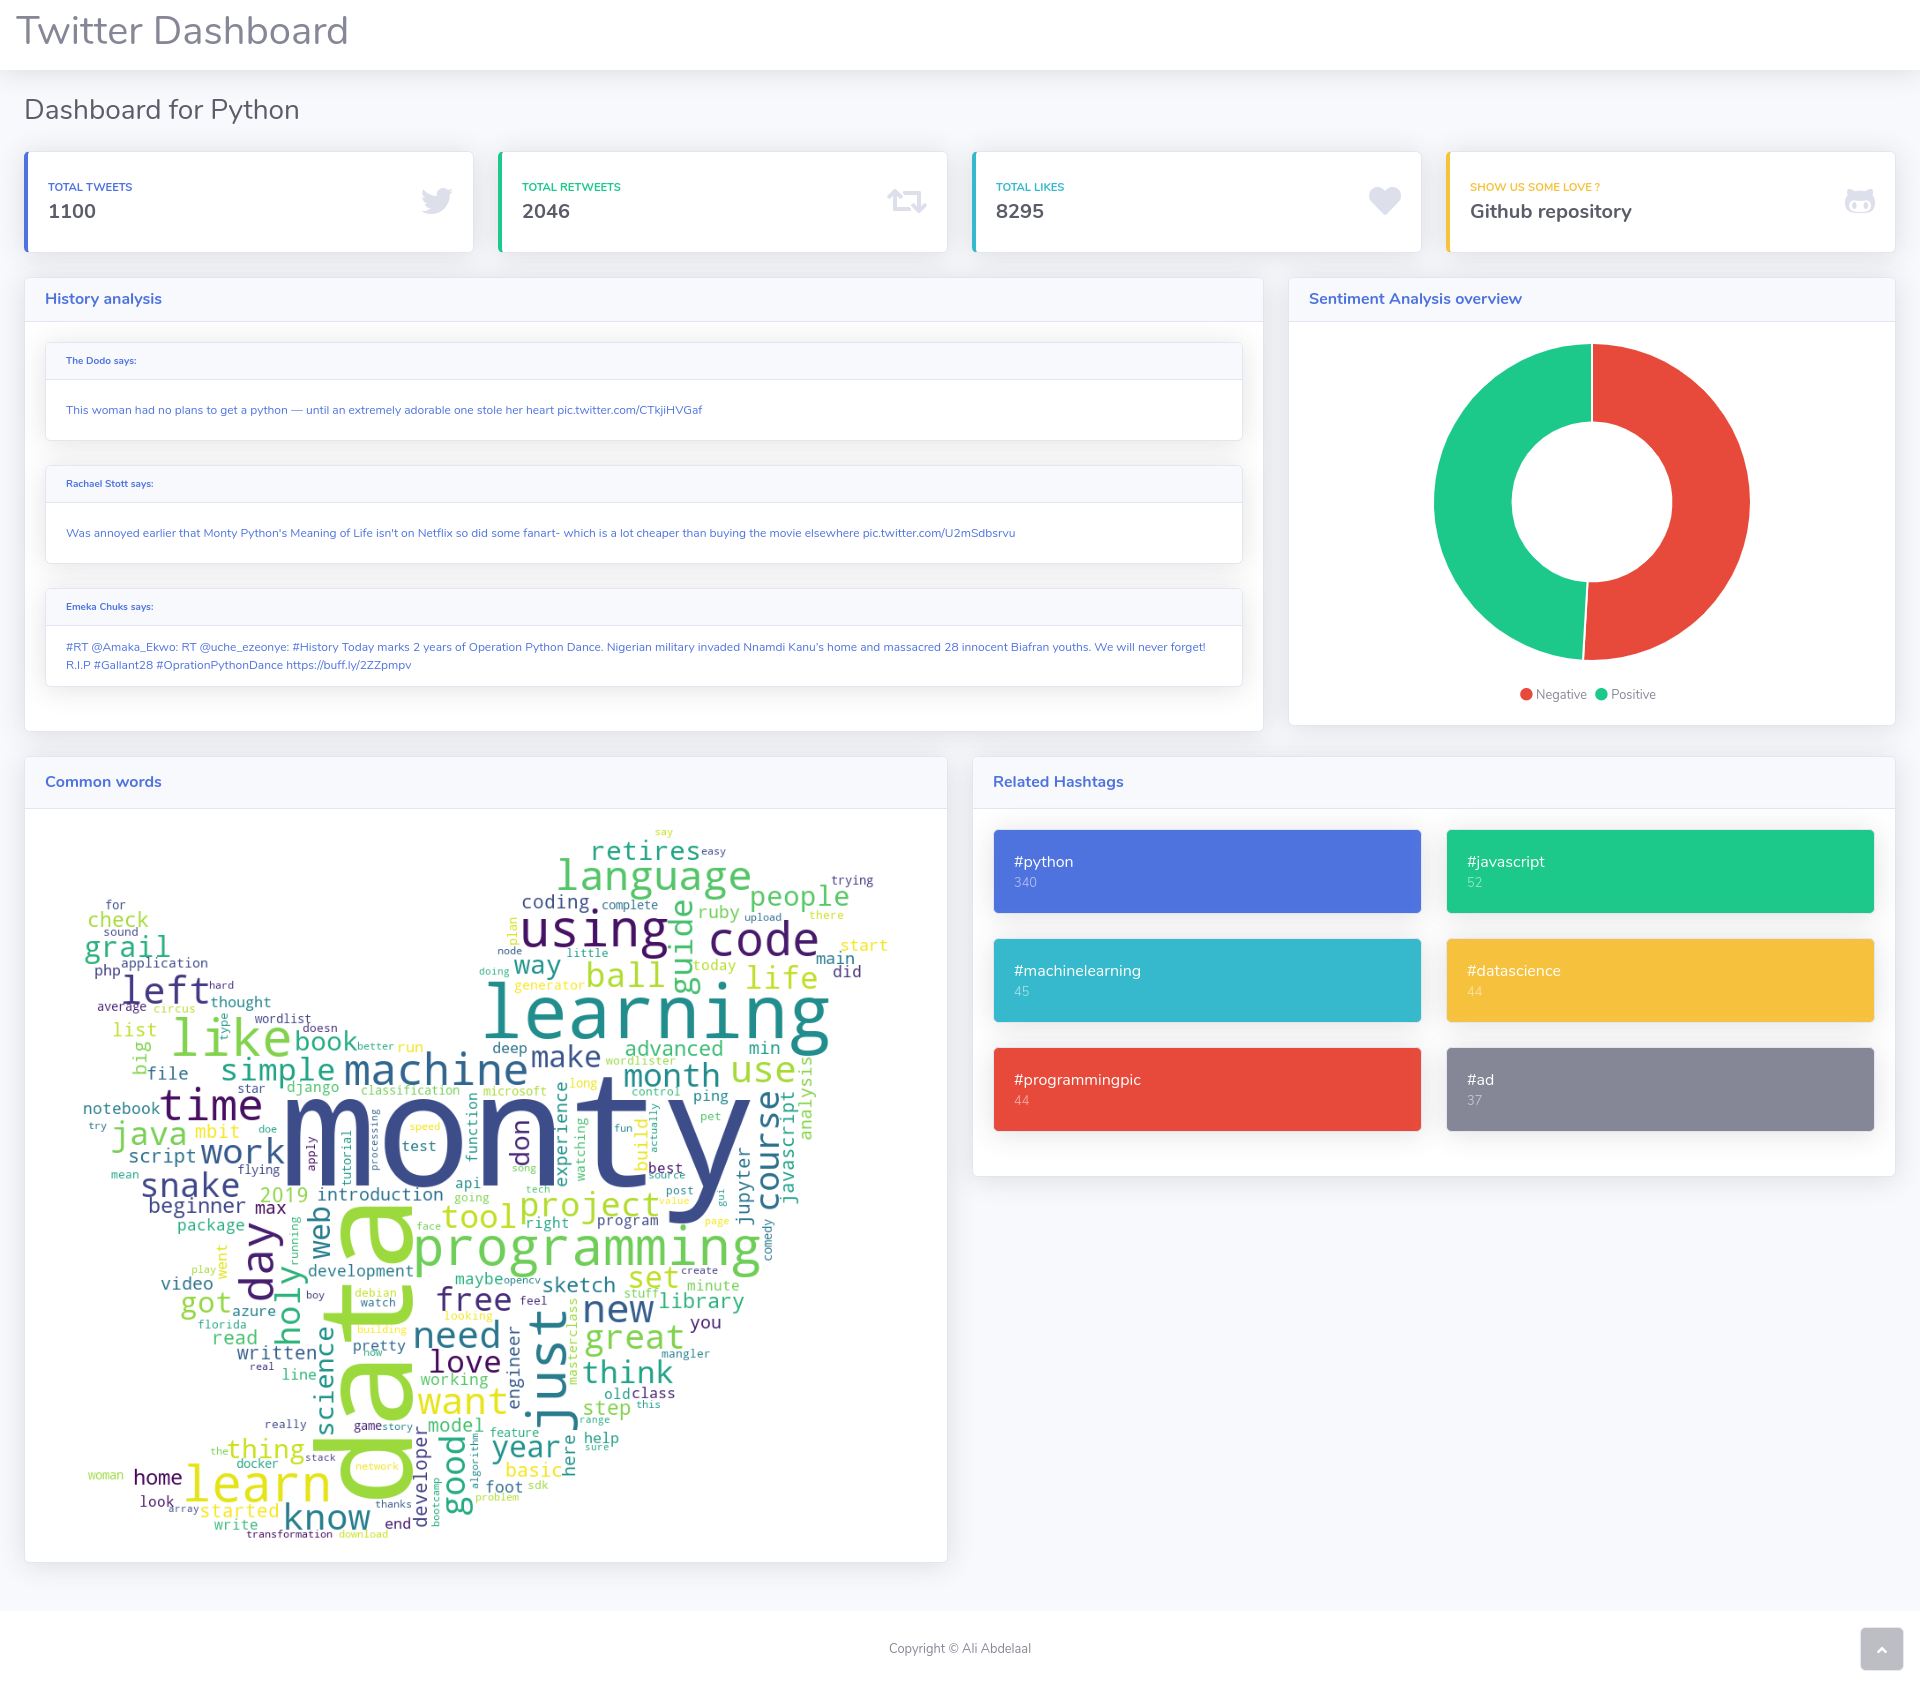
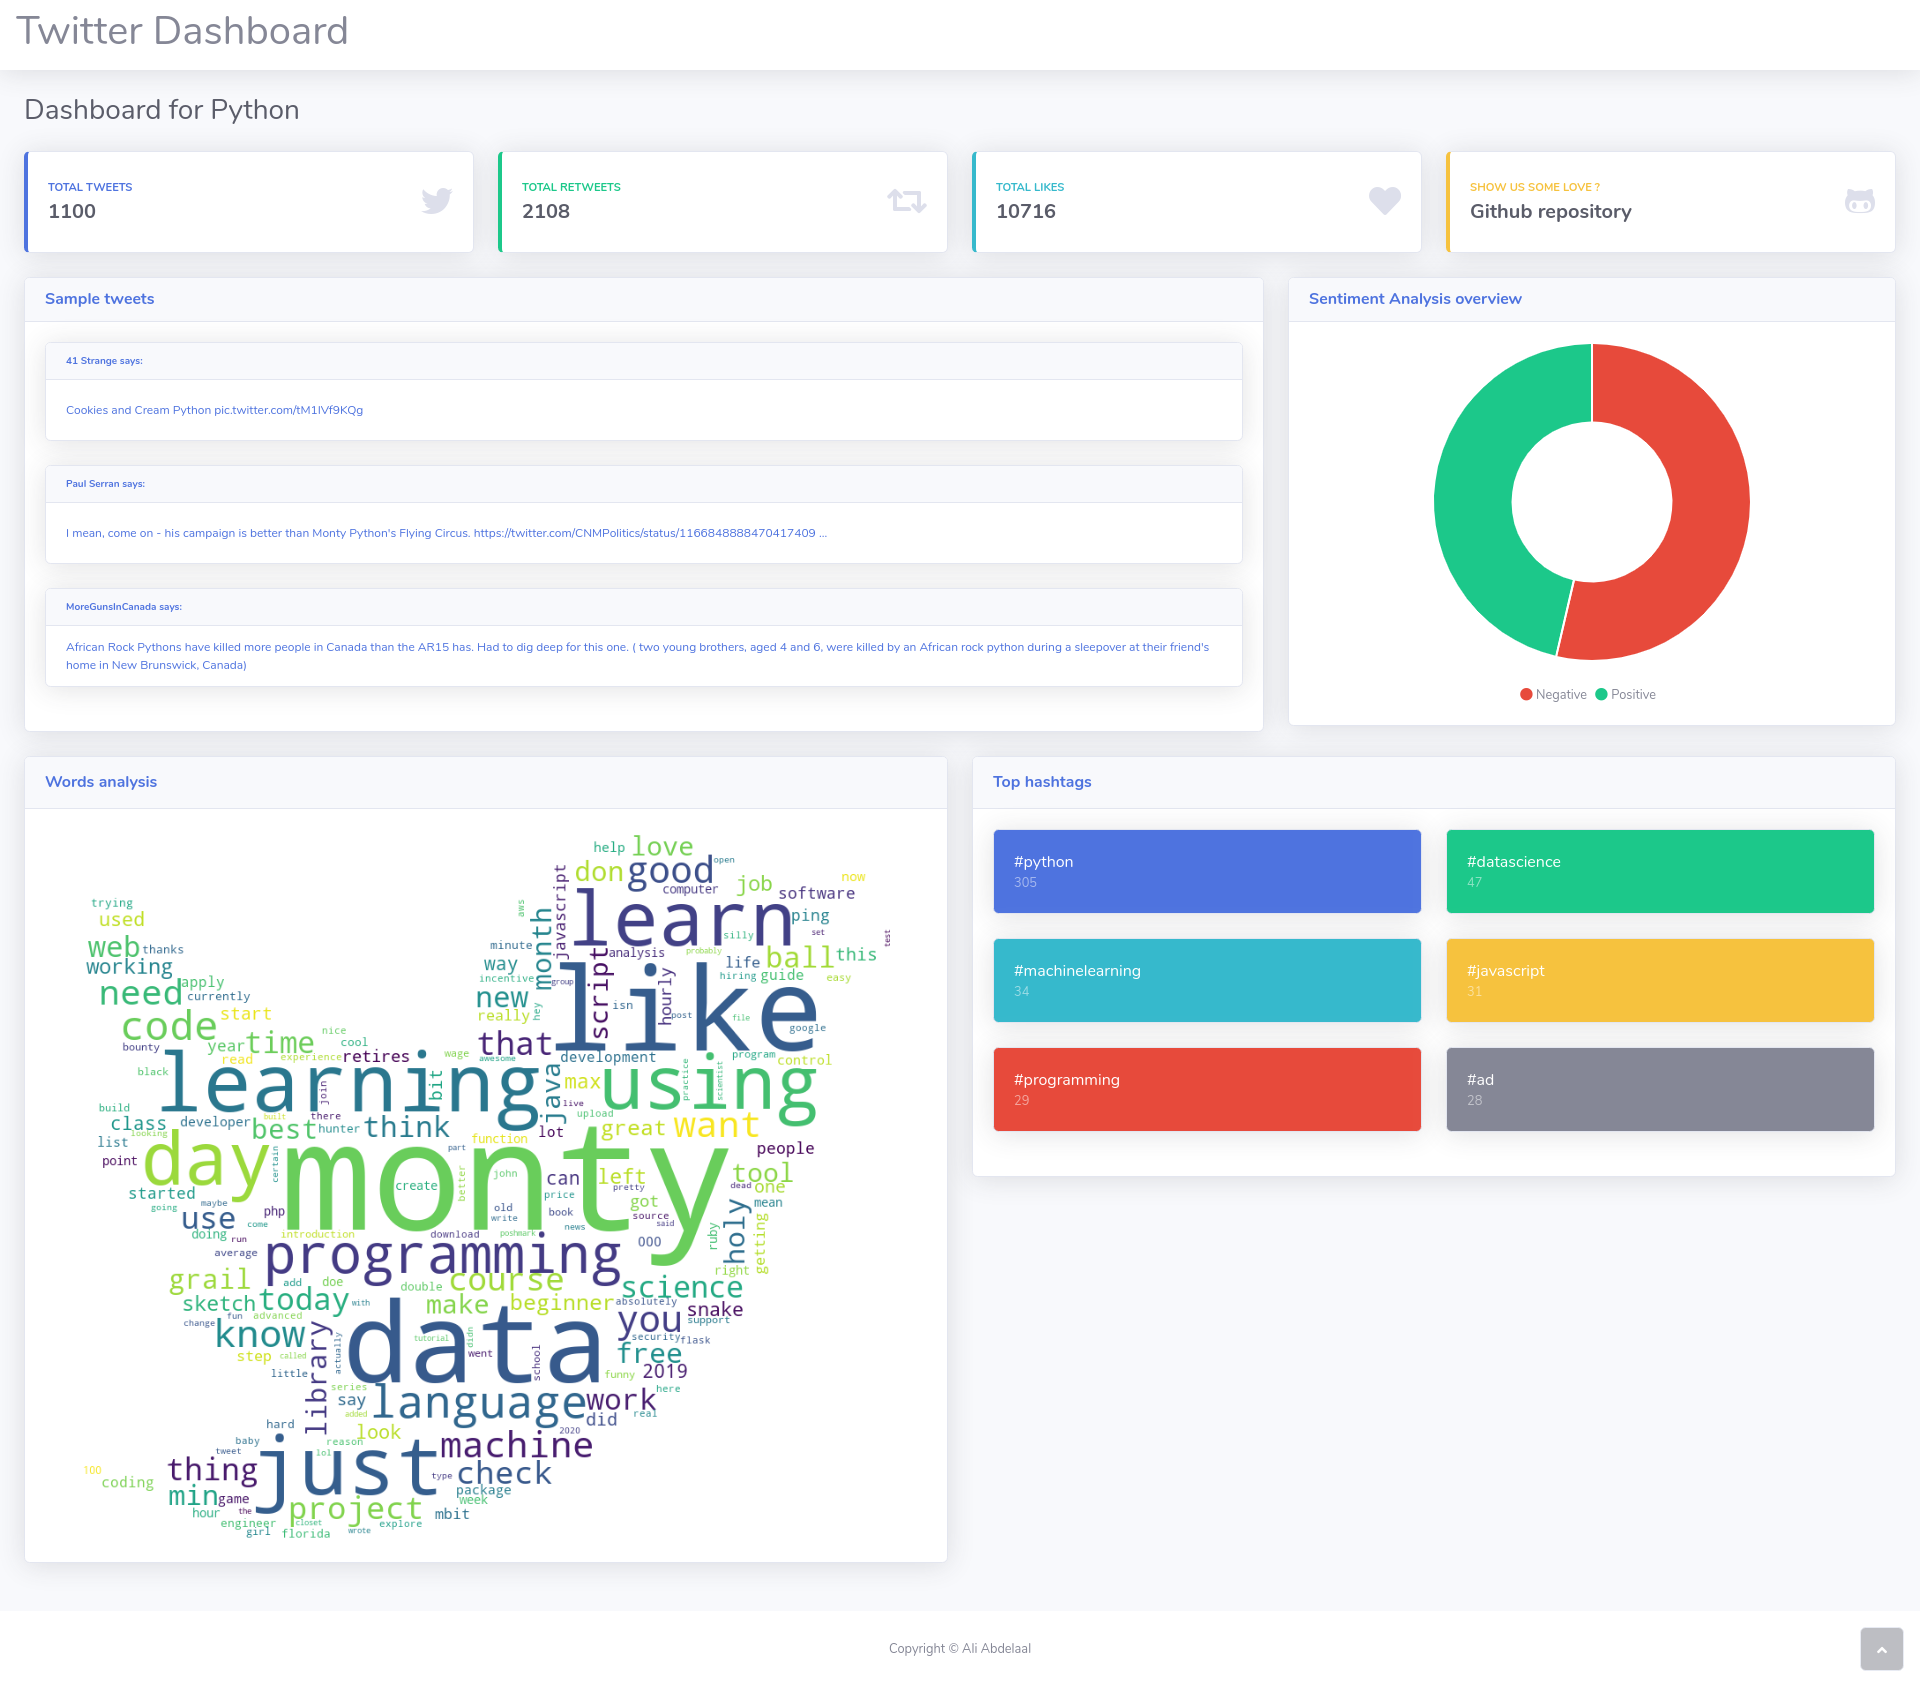
card label correct

diff --git a/twitterdash/templates/dashboard.html b/twitterdash/templates/dashboard.html
@@ -102,7 +102,7 @@
                         <div class="col-lg-7 col-xl-8">
                             <div class="card shadow mb-4">
                                 <div class="card-header d-flex justify-content-between align-items-center">
-                                    <h6 class="text-primary font-weight-bold m-0">History analysis</h6>
+                                    <h6 class="text-primary font-weight-bold m-0">Sample tweets</h6>
                                 </div>
                                 <div class="card-body">
                                     {%for tweet in top_tweets%}
@@ -137,7 +137,7 @@
                         <div class="col-lg-6 mb-4">
                             <div class="card shadow mb-4">
                                 <div class="card-header py-3">
-                                    <h6 class="text-primary font-weight-bold m-0">Common words</h6>
+                                    <h6 class="text-primary font-weight-bold m-0">Words analysis</h6>
                                 </div>
                                 <div class="card-body"><img class="img-fluid" src="{{ url_for('static', filename='img/'+cloud_sign) }}"></div>
                             </div>
@@ -145,7 +145,7 @@
                         <div class="col">
                             <div class="card shadow mb-4">
                                 <div class="card-header py-3">
-                                    <h6 class="text-primary font-weight-bold m-0">Related Hashtags</h6>
+                                    <h6 class="text-primary font-weight-bold m-0">Top hashtags</h6>
                                 </div>
                                 <div class="card-body">
                                     <div class="row">

diff --git a/README.md b/README.md
@@ -32,14 +32,14 @@ you will find a message ending with the url like so
 
 Jump into the link and you will directed to the landing page
 
+![landing](res/landing.png)
+
+you can type your query and press analyse to get the dashboard, it's a little bit slow, but it works :D
+
 ## Usage tips
 
 * The max number of tweets are set to 1000 and for only one month back, you can override these option in the `twitterdash/scraper.py` file.
 * Changing the `poolsize` in `twitterdash/scraper.py` will affect the speed of scraping but also the performance of your machine, don't get too far with it.
-
-![landing](res/landing.png)
-
-you can type your query and press analyse to get the dashboard, it's a little bit slow, but it works :D
 
 ## References
 
